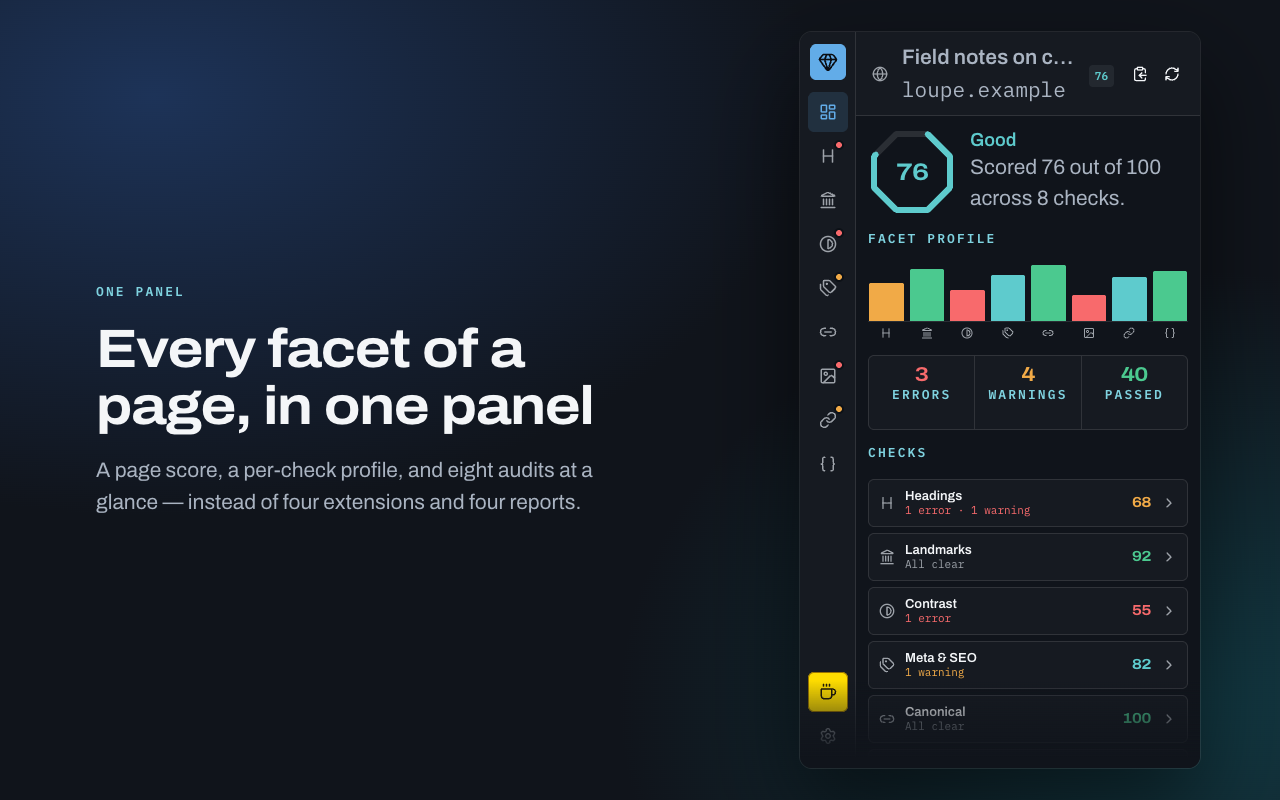
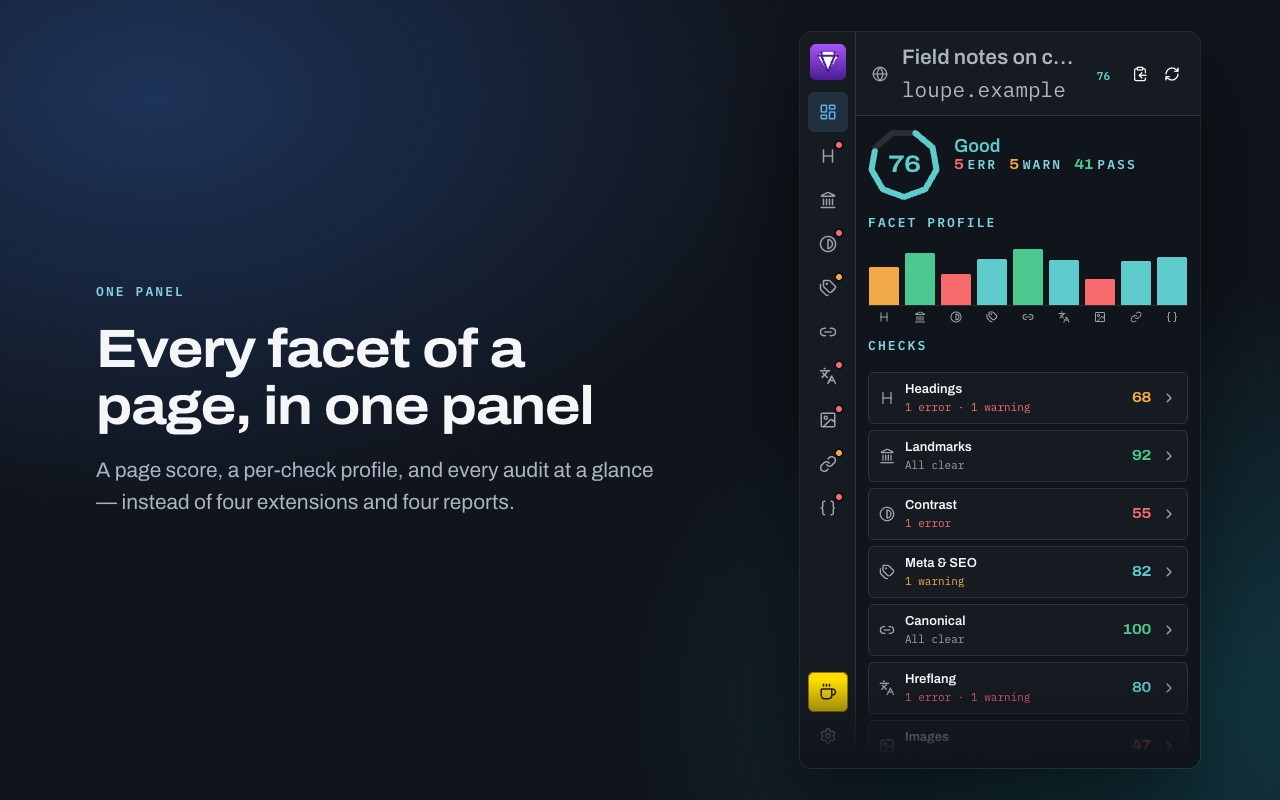
docs: rewrite store copy and refresh screenshots for 1.3

diff --git a/dev/shots.tsx b/dev/shots.tsx
@@ -33,13 +33,6 @@ const SLIDES: Record<string, Slide> = {
     subhead:
       'Resolves translucent layers and computed colors, applies the correct large-text rule, and tells you what each failing sample needs.',
   },
-  headings: {
-    view: 'Headings',
-    eyebrow: 'Structure',
-    headline: 'The outline a screen reader actually hears',
-    subhead:
-      'Skipped levels, empty headings and duplicate h1s, with a crosshair on every finding to locate it on the live page.',
-  },
   meta: {
     view: 'Meta',
     eyebrow: 'SEO',
@@ -48,12 +41,19 @@ const SLIDES: Record<string, Slide> = {
       'Search-result and social-card previews, character-count meters for title and description, and every essential meta tag in one place.',
     theme: 'light',
   },
-  structured: {
-    view: 'Structured',
-    eyebrow: 'Rich results',
-    headline: 'JSON-LD, checked field by field',
+  images: {
+    view: 'Images',
+    eyebrow: 'Alt text',
+    headline: 'Read the alt text, not just its absence',
     subhead:
-      'schema.org validity and completeness for the types Google needs, with the required and recommended fields marked off.',
+      'Every image with its alt text quoted verbatim and its length, so you can judge whether it is useful — not merely present.',
+  },
+  hreflang: {
+    view: 'Hreflang',
+    eyebrow: 'Multilingual',
+    headline: 'Catch the hreflang bugs that hide',
+    subhead:
+      'Invalid tags, bad region codes, a missing self-reference, duplicate targets — and optionally whether each alternate page actually responds.',
   },
 }
 

diff --git a/manifest.config.ts b/manifest.config.ts
@@ -19,7 +19,7 @@ const MAX_DESCRIPTION = 132
  * and must fit the store's limit, which package.json has no reason to respect.
  */
 const DESCRIPTION =
-  'Audit headings, ARIA landmarks, contrast, meta/SEO, hreflang, alt text, links and JSON-LD from one side panel.'
+  'Accessibility and SEO audit in one side panel: contrast, headings, ARIA, alt text, meta, hreflang and structured data.'
 
 if (DESCRIPTION.length > MAX_DESCRIPTION) {
   throw new Error(

diff --git a/store/LISTING.md b/store/LISTING.md
@@ -22,10 +22,10 @@ _36 characters._
 ### Summary / short description (max 132)
 
 ```
-Audit headings, ARIA landmarks, contrast, meta/SEO, hreflang, alt text, links and JSON-LD from one side panel.
+Accessibility and SEO audit in one side panel: contrast, headings, ARIA, alt text, meta, hreflang and structured data.
 ```
 
-_106 characters. Matches `description` in the manifest, which is where the store
+_118 characters. Matches `description` in the manifest, which is where the store
 pre-fills this from._
 
 ### Detailed description (max 16,000)
@@ -33,33 +33,35 @@ pre-fills this from._
 ```
 Facet inspects every facet of a page — accessibility, SEO and structured data — from one side panel, and takes you straight to whatever is wrong.
 
-Instead of running four extensions and reading four different reports, you open one panel next to the page you are working on and see all of it at once: a page score, a per-check profile, and a list of findings you can click to locate on the page.
+Instead of running four extensions and reading four different reports, you keep one panel open beside the page you are building. It scores nine checks on one scale, and every finding with a location has a crosshair that scrolls to the element and outlines it on the live page.
 
 WHAT IT CHECKS
 
-• Headings — a full document outline, plus missing or duplicate <h1>, skipped levels, and empty headings.
-• ARIA landmarks — landmark regions from both implicit and explicit roles: missing or duplicate main, unlabeled navigation, banner and contentinfo.
-• Color contrast — text contrast against WCAG AA or AAA thresholds, resolving real backgrounds and translucent layers, with correct large-text rules.
-• Meta & SEO — title, description, viewport, charset, lang, robots and canonical, with a search-result preview, character-count meters, and an Open Graph / Twitter card preview.
-• Canonical — presence, self-reference versus cross-reference, duplicates, and relative or insecure URLs.
-• Hreflang — language and region annotations: invalid tags, en-UK and other bad region codes, a missing self-reference, duplicate or shared targets, and a missing x-default.
-• Images — missing alt, decorative alt="", filename-like or over-long alt text, shown as a status gallery.
+• Contrast — text contrast against WCAG AA or AAA, resolving real backgrounds and translucent layers, with the correct large-text rule.
+• Headings — a full document outline, plus missing or duplicate h1, skipped levels, and empty headings.
+• ARIA landmarks — regions from implicit and explicit roles: missing or duplicate main, unlabeled navigation, banner and contentinfo.
+• Images — every image with its alt text quoted in full and its length, so you can judge whether the alt is useful rather than merely present. Filename-like and over-long alt is flagged.
+• Meta & SEO — title, description, viewport, charset, lang, robots and canonical, with a search-result preview, character-count meters and an Open Graph / Twitter card preview.
+• Hreflang — invalid language tags, region codes that do not exist (en-UK should be en-GB), a missing self-reference, duplicate or shared targets, and a missing x-default. Optionally checks that each alternate page actually responds.
+• Canonical — presence, self-reference versus cross-reference, duplicates, relative or insecure URLs.
 • Links — links with no discernible text, empty or placeholder href, ambiguous "click here" text, and target="_blank" without rel="noopener".
 • Structured data — JSON-LD validity and schema.org completeness for Article, Product, Recipe, Breadcrumb, FAQ, Organization and more: the fields Google needs for rich results.
 
-FIND IT, THEN FIX IT
+BUILT FOR THE FIX-AND-RECHECK LOOP
 
-Every finding with a location has a crosshair button that scrolls to the element and outlines it on the live page. Copy the whole report as Markdown to paste straight into an issue or a pull request. Press Alt+Shift+F to re-scan without leaving the keyboard.
+Re-scan and the score tells you whether you actually improved it — a green +4 or a red −3 against the previous scan of the same page. Copy the whole report as Markdown straight into an issue or a pull request. Press Alt+Shift+F to re-scan without leaving the keyboard.
 
 BUILT TO ITS OWN STANDARD
 
-An accessibility tool should pass its own checks. Facet's panel is fully keyboard navigable with arrow-key movement through the facet rail, announces completed scans through a live region, gives every control an accessible name and every focusable element a visible focus ring, respects reduced-motion preferences, and carries no text below its WCAG AA contrast threshold in either light or dark theme — verified by pointing Facet's own contrast auditor at Facet.
+An accessibility tool should pass its own checks. Facet's panel is fully keyboard navigable with arrow-key movement through the facet rail, announces completed scans through a live region, gives every control an accessible name and every focusable element a visible focus ring, respects reduced-motion preferences, and carries no text below its WCAG AA contrast threshold in either light or dark theme. That last claim is verified two ways: by pointing Facet's own contrast auditor at Facet, and by a test suite that reads the stylesheet and asserts every color pair on every run.
 
 PRIVATE BY CONSTRUCTION
 
-Facet has no server, no analytics and no telemetry. It reads a page only while its panel is open, and nothing it reads ever leaves your browser. The only thing it stores is your own settings.
+No server, no analytics, no telemetry, no accounts. By default Facet makes no network requests at all — it reads a page only while its panel is open, and nothing it reads ever leaves your browser. The only thing it stores is your own settings.
 
-By default it makes no network requests at all. One optional setting, "Check hreflang URLs", is off unless you turn it on; with it on, Facet asks each hreflang URL already published in the page's own markup whether it responds, sends no cookies or credentials, and keeps only the status code. It is open source: read the code at https://github.com/jordan-davila/facet
+One optional setting, "Check hreflang URLs", is off unless you turn it on. With it on, Facet asks each hreflang URL already published in the page's own markup whether it responds, sends no cookies or credentials, and keeps only the status code.
+
+Open source, MIT: https://github.com/jordan-davila/facet
 
 NOTES
 
@@ -78,15 +80,19 @@ Facet cannot scan browser-internal pages such as chrome:// or the Chrome Web Sto
 
 ## Graphic assets
 
-| Asset              | Size              | Required                            | Source                                                   |
-| ------------------ | ----------------- | ----------------------------------- | -------------------------------------------------------- |
-| Store icon         | 128×128 PNG       | Yes                                 | `icons/icon128.png`                                      |
-| Screenshots        | 1280×800 PNG, 1–5 | Yes (at least 1)                    | `pnpm store:shots` → `store/screenshots/`                |
-| Small promo tile   | 440×280 PNG       | Only to be considered for featuring | `pnpm store:shots` → `store/screenshots/promo-small.png` |
-| Marquee promo tile | 1400×560 PNG      | Optional                            | Not generated; only needed for the marquee slot          |
+| Asset              | Size              | Required                            | Source                                                     |
+| ------------------ | ----------------- | ----------------------------------- | ---------------------------------------------------------- |
+| Store icon         | 128×128 PNG       | Yes                                 | `icons/icon128.png`                                        |
+| Screenshots        | 1280×800 PNG, 1–5 | Yes (at least 1)                    | `pnpm store:shots` → `store/screenshots/` (five, in order) |
+| Small promo tile   | 440×280 PNG       | Only to be considered for featuring | `pnpm store:shots` → `store/screenshots/promo-small.png`   |
+| Marquee promo tile | 1400×560 PNG      | Optional                            | Not generated; only needed for the marquee slot            |
 
 Screenshots are generated from the real panel with canned data, so they never
-show a real user's browsing.
+show a real user's browsing. Upload them in numeric order — `01-overview` is the
+one that appears in search results.
+
+**Re-run `pnpm store:shots` after any UI change.** Images that no longer match
+the installed extension are worse than fewer images.
 
 ---
 
